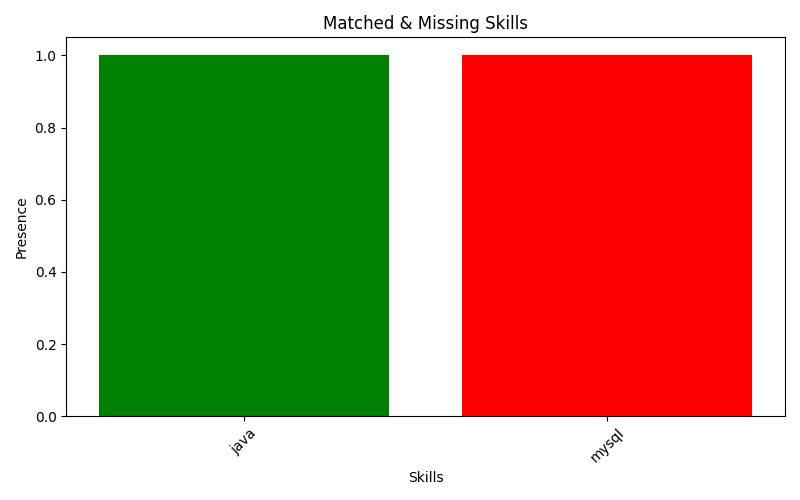
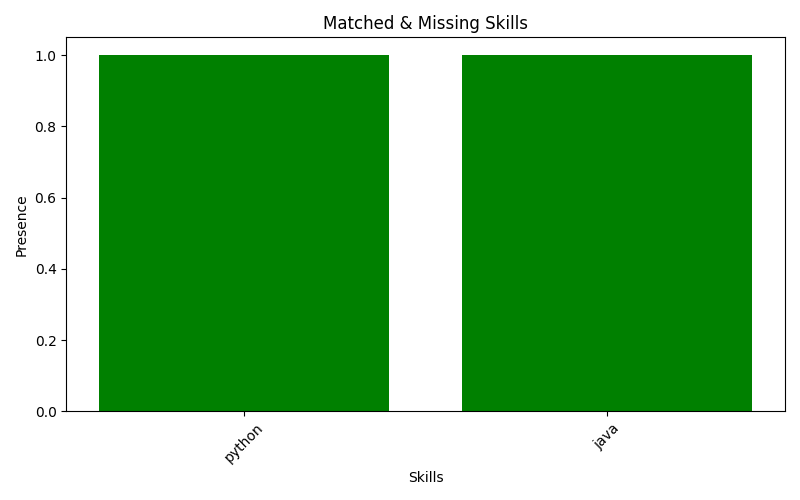
Skill Extraction Issue Resolving

diff --git a/backend/app.py b/backend/app.py
@@ -16,14 +16,35 @@ from fuzzywuzzy import fuzz
 app = Flask(__name__)
 
 # Synonym Dictionary for Skill Matching
+# Synonym Dictionary for Skill Matching
 synonym_dict = {
     "machine learning": ["ml", "deep learning", "artificial intelligence"],
     "data analysis": ["data analytics", "business intelligence"],
     "nlp": ["natural language processing"],
     "sql": ["structured query language", "mysql", "postgresql", "oracle sql", "ms sql", "sqlite", "pl/sql"],
-    "c++": ["c plus plus", "cpp", "c++"],  # Add more synonyms for C++
-    "web development": ["web dev", "frontend", "backend", "full-stack", "web development"]  # Add more synonyms for Web Dev
+    "c++": ["c plus plus", "cpp", "c++"],
+    "web development": ["web dev", "frontend", "backend", "full-stack", "web development"]
 }
+
+# Skill Headings for detecting skill sections
+skill_headings = [
+    "skills",
+    "technical skills",
+    "soft skills",
+    "additional skills",
+    "professional skills",
+    "programming skills",
+    "programming languages",
+    "languages",
+    "tools",
+    "technologies",
+    "expertise",
+    "proficiencies",
+    "side skills",
+    "key skills",
+    "strengths",
+    "technical proficiency"
+]
 
 # Set your Poppler path (for Windows, adjust as needed)
 poppler_path = r"C:\Program Files\poppler-24.08.0\Library\bin"
@@ -60,6 +81,27 @@ def extract_text_from_docx(docx_path):
     text = "\n".join([para.text for para in doc.paragraphs])
     return text.lower()
 
+def extract_skill_section(text):
+    """
+    Find and return skill-related section from resume text.
+    Only capture lines after skill headings like 'Technical Skills', 'Soft Skills', etc.
+    """
+    lines = [line.strip() for line in text.split('\n') if line.strip()]
+    skill_section = []
+    capture = False
+    for line in lines:
+        line_lower = line.lower()
+        if any(heading in line_lower for heading in skill_headings):
+            capture = True
+            continue  # skip the heading line itself
+        elif capture:
+            # Stop if new major section like Experience, Education starts
+            if len(line) == 0 or any(x in line_lower for x in ["experience", "education", "project", "certification", "profile summary", "summary"]):
+                break
+            skill_section.append(line)
+
+    return ' '.join(skill_section)
+
 # Extract Resume Information
 def extract_resume_info(text, job_keywords, filename=""):
     name = extract_name(text, filename)
@@ -78,10 +120,13 @@ def extract_resume_info(text, job_keywords, filename=""):
     )
     address = address_match.group(0) if address_match else "Not Found"
 
+    # ✨ Use only skill section now
+    skill_text = extract_skill_section(text)
+
     skills = []
     for s in job_keywords:
         pattern = r"\b" + re.escape(s.lower()) + r"\b"
-        if re.search(pattern, text.lower()):
+        if re.search(pattern, skill_text.lower()):
             skills.append(s)
 
     return name, email, phone, address, skills
